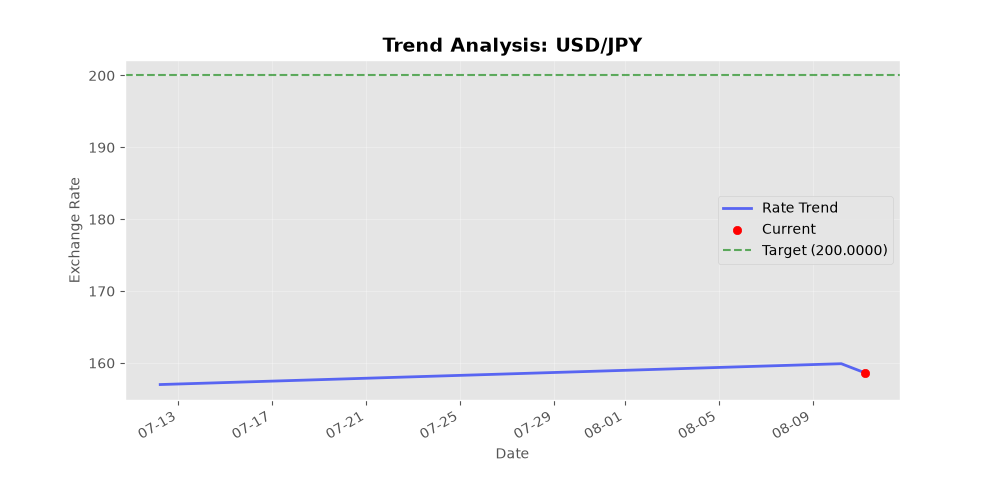
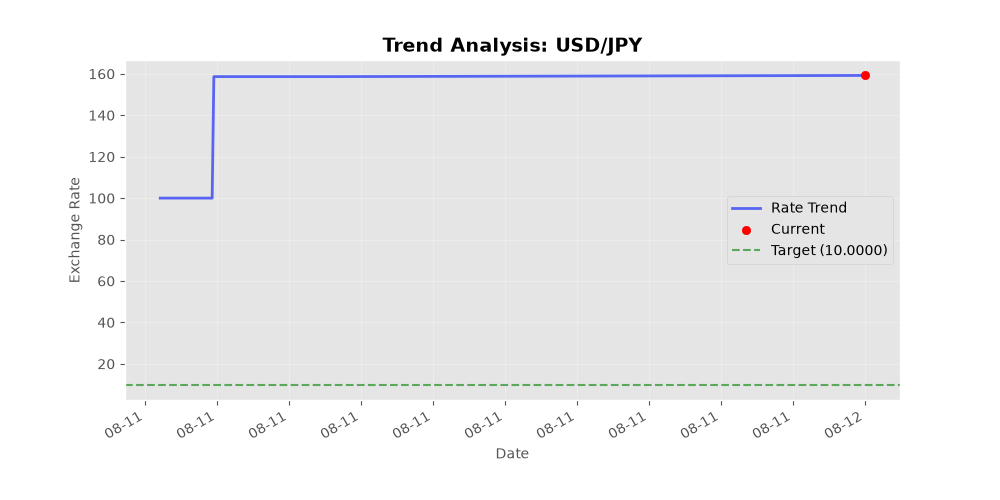
Add bot design for ETF and currency change

diff --git a/agent-services/currency_notifier/pipeline.py b/agent-services/currency_notifier/pipeline.py
@@ -214,7 +214,8 @@ async def run(
     *,
     notifier: Notifier | None = None,
     client: httpx.AsyncClient | None = None,
-) -> int:
+    return_all_data: bool = False,
+) -> int | list[dict[str, Any]]:
     """Run one full polling cycle.
 
     Parameters
@@ -229,10 +230,14 @@ async def run(
         instances are built from ``config.discord`` and
         :func:`common.http_client.create_async_client` respectively, and the
         pipeline cleans them up.
+    return_all_data:
+        If True, returns a list of all processed pair data instead of the 
+        count of delivered alerts. Used for the Daily Heartbeat.
 
     Returns
     -------
-    Number of alerts successfully delivered to Discord.
+    Number of alerts successfully delivered to Discord, OR a list of 
+    per-pair results if return_all_data is True.
     """
     owned_notifier = notifier is None
     owned_client = client is None
@@ -240,37 +245,39 @@ async def run(
     if client is None:
         client = create_async_client()
     if notifier is None:
-        # ``create_notifier`` may raise ``NotifyError`` for missing config —
-        # surface that to the caller as a programming error.
         notifier = create_notifier(config.discord)
 
     delivered = 0
+    all_data: list[dict[str, Any]] = []
     try:
         store = RateStore(db)
         color = int(config.discord.default_color)
 
         for pair_cfg in config.pairs:
             try:
+                pair_dict = _coerce_pair_dict(pair_cfg)
+                pair = _pair_label(pair_dict)
+                rate = await fetch_rate(pair_dict["base"], pair_dict["quote"], client)
+                
+                if rate is None:
+                    all_data.append({"pair": pair, "rate": None, "status": "Error"})
+                    continue
+                
+                # Track data for Heartbeat regardless of notification status
+                all_data.append({"pair": pair, "rate": rate, "status": "OK"})
+                
                 if await _process_pair(pair_cfg, client, store, notifier, color):
                     delivered += 1
-            except FetchError as exc:
-                # Unknown pair is a configuration-level problem; log loudly
-                # and continue with the remaining pairs.
-                logger.error(
-                    "Skipping pair %s due to fetch error: %s",
-                    getattr(pair_cfg, "base", "?"),
-                    exc,
-                )
-            except Exception as exc:  # noqa: BLE001 — pipeline must not abort
-                logger.exception(
-                    "Unexpected failure processing pair %s: %s", pair_cfg, exc
-                )
+            except Exception as exc:
+                logger.exception("Unexpected failure processing pair %s: %s", pair_cfg, exc)
     finally:
         if owned_notifier:
             await notifier.close()
         if owned_client:
             await client.aclose()
 
+    if return_all_data:
+        return all_data
     return delivered
 
 

diff --git a/agent-services/common/heartbeat.py b/agent-services/common/heartbeat.py
@@ -1,0 +1,81 @@
+"""Module for synthesizing data from all agents into a single Daily Heartbeat report.
+"""
+from __future__ import annotations
+
+import logging
+from datetime import datetime, timezone
+from typing import Any
+
+from common.discord_notifier import Embed, EmbedField, Notifier, create_notifier
+
+logger = logging.getLogger(__name__)
+
+async def build_heartbeat_embed(
+    currency_data: list[dict[str, Any]],
+    etf_data: list[dict[str, Any]],
+    news_digest: str,
+    discord_config: Any,
+) -> Embed:
+    """Consolidate data from all agents into one consolidated daily heartbeat.
+    """
+    # 1. Process Currencies
+    curr_lines = []
+    for item in currency_data:
+        pair = item.get("pair", "Unknown")
+        rate = item.get("rate")
+        status = "Error" if rate is None else f"{rate:.4f}"
+        curr_lines.append(f"- {pair}: {status}")
+    
+    curr_text = "\n".join(curr_lines) if curr_lines else "_No currency data available._"
+
+    # 2. Process ETFs
+    etf_lines = []
+    for item in etf_data:
+        symbol = item.get("symbol", "Unknown")
+        price = item.get("price")
+        status = item.get("status", "Neutral")
+        price_text = f"${price:.2f}" if price is not None else "n/a"
+        etf_lines.append(f"- {symbol}: {price_text} ({status})")
+    
+    etf_text = "\n".join(etf_lines) if etf_lines else "_No asset data available._"
+
+    # 3. News summary (already markdown)
+    news_text = news_digest if news_digest else "_No new articles today._"
+    # Truncate news to fit in a field
+    if len(news_text) > 1000:
+        news_text = news_text[:997] + "..."
+
+    fields = [
+        EmbedField(name="💵 Currencies", value=curr_text, inline=False),
+        EmbedField(name="📈 Assets", value=etf_text, inline=False),
+        EmbedField(name="📰 Daily News", value=news_text, inline=False),
+    ]
+
+    return Embed(
+        title="📅 Daily Market Heartbeat",
+        description="Your consolidated intelligence briefing for today.",
+        color=int(getattr(discord_config, "default_color", 0x5865F2)),
+        fields=fields,
+        timestamp=datetime.now(timezone.utc).isoformat(),
+        footer="intelligence-hub · heartbeat",
+    )
+
+async def send_heartbeat(
+    currency_data: list[dict[str, Any]],
+    etf_data: list[dict[str, Any]],
+    news_digest: str,
+    discord_config: Any,
+) -> bool:
+    """Build and send the heartbeat embed via Discord.
+    """
+    try:
+        embed = await build_heartbeat_embed(currency_data, etf_data, news_digest, discord_config)
+        notifier = create_notifier(discord_config)
+        ok = await notifier.send_embed(embed)
+        await notifier.close()
+        return ok
+    except Exception as exc:
+        logger.error("Heartbeat delivery failed: %s", exc)
+        return False
+
+__all__ = ["send_heartbeat", "build_heartbeat_embed"]

diff --git a/agent-services/scripts/run_all.py b/agent-services/scripts/run_all.py
@@ -101,25 +101,40 @@ async def run_all_once(
     etf_cfg: EtfSignalConfig,
     currency_cfg: CurrencyNotifierConfig,
 ) -> None:
-    """Run each app once (sequentially for safety)."""
+    """Run each app once (sequentially for safety) and send a consolidated Heartbeat.
+    """
     from common.database import Database
+    from common.heartbeat import send_heartbeat
 
     logger.info("Running all apps once (--once mode)")
 
-    # News digest — no DB needed at pipeline level
-    await _safe_run("news-digest", news_run(news_cfg))
+    # 1. News digest — run and capture output
+    # Note: news_run returns the digest string (markdown)
+    news_digest = await _safe_run("news-digest", news_run(news_cfg))
 
-    # ETF signal — needs DB path
+    # 2. ETF signal — run and capture data
     etf_db_path = _PROJECT_ROOT / "data" / "etf_signal.db"
-    await _safe_run("etf-signal", etf_run(etf_cfg, db_path=etf_db_path))
+    etf_data = await _safe_run("etf-signal", etf_run(etf_cfg, db_path=etf_db_path, return_all_data=True))
 
-    # Currency notifier — needs DB
+    # 3. Currency notifier — run and capture data
     currency_db_path = _PROJECT_ROOT / "data" / "currency_notifier.db"
     db = Database(currency_db_path)
     try:
-        await _safe_run("currency-notifier", currency_run(currency_cfg, db))
+        currency_data = await _safe_run("currency-notifier", currency_run(currency_cfg, db, return_all_data=True))
     finally:
         db.close()
+
+    # 4. Daily Heartbeat — consolidate everything into one final report
+    logger.info("Generating Daily Heartbeat report...")
+    await _safe_run(
+        "heartbeat", 
+        send_heartbeat(
+            currency_data=currency_data or [],
+            etf_data=etf_data or [],
+            news_digest=news_digest or "",
+            discord_config=news_cfg.discord
+        )
+    )
 
 
 def schedule_all(

diff --git a/agent-services/etf_signal/pipeline.py b/agent-services/etf_signal/pipeline.py
@@ -303,7 +303,8 @@ async def run(
     config: EtfSignalConfig,
     db_path: Path | None = None,
     notifier: Notifier | None = None,
-) -> int:
+    return_all_data: bool = False,
+) -> int | list[dict[str, Any]]:
     """Run one pipeline iteration. Returns the number of signals dispatched.
 
     ``db_path`` defaults to :data:`DEFAULT_DB_PATH`. Pass ``notifier`` to
@@ -311,9 +312,12 @@ async def run(
     from ``config.discord`` (which may itself raise :class:`NotifyError`
     when no webhook is configured — caught and logged so the loop still
     completes for the remaining symbols).
+
+    If return_all_data is True, returns a list of status for all symbols.
     """
     resolved_db_path = Path(db_path) if db_path is not None else DEFAULT_DB_PATH
     signals_dispatched = 0
+    all_data: list[dict[str, Any]] = []
 
     db = Database(resolved_db_path)
     try:
@@ -337,10 +341,17 @@ async def run(
                     "Skipping %s: indicator computation failed",
                     symbol,
                 )
+                all_data.append({"symbol": symbol, "price": None, "status": "Error"})
                 continue
 
             sentiment = await analyze_sentiment(symbol, config)
             signal = evaluate_signal(indicators, sentiment, config)
+            
+            # Track data for Heartbeat regardless of signal status
+            price = _safe_float(indicators.get("price"))
+            status = signal[0] if signal else "Neutral"
+            all_data.append({"symbol": symbol, "price": price, "status": status})
+
             if signal is None:
                 logger.info("No signal for %s", symbol)
                 continue
@@ -376,6 +387,8 @@ async def run(
         if notifier is not None:
             await notifier.close()
 
+    if return_all_data:
+        return all_data
     return signals_dispatched
 
 

diff --git a/agent-services/news_digest/summarizer.py b/agent-services/news_digest/summarizer.py
@@ -49,8 +49,9 @@ def _format_articles(articles: Iterable[Article]) -> str:
         if article.link:
             lines.append(f"  Link: {article.link}")
         if article.summary:
-            # Trim very long summaries to keep the prompt manageable.
-            summary = article.summary.replace("\n", " ").strip()
+            # Clean HTML tags from summaries before sending to the model
+            import re
+            summary = re.sub(r'<[^>]+>', '', article.summary).replace("\n", " ").strip()
             if len(summary) > 400:
                 summary = summary[:400].rstrip() + "…"
             lines.append(f"  Summary: {summary}")
